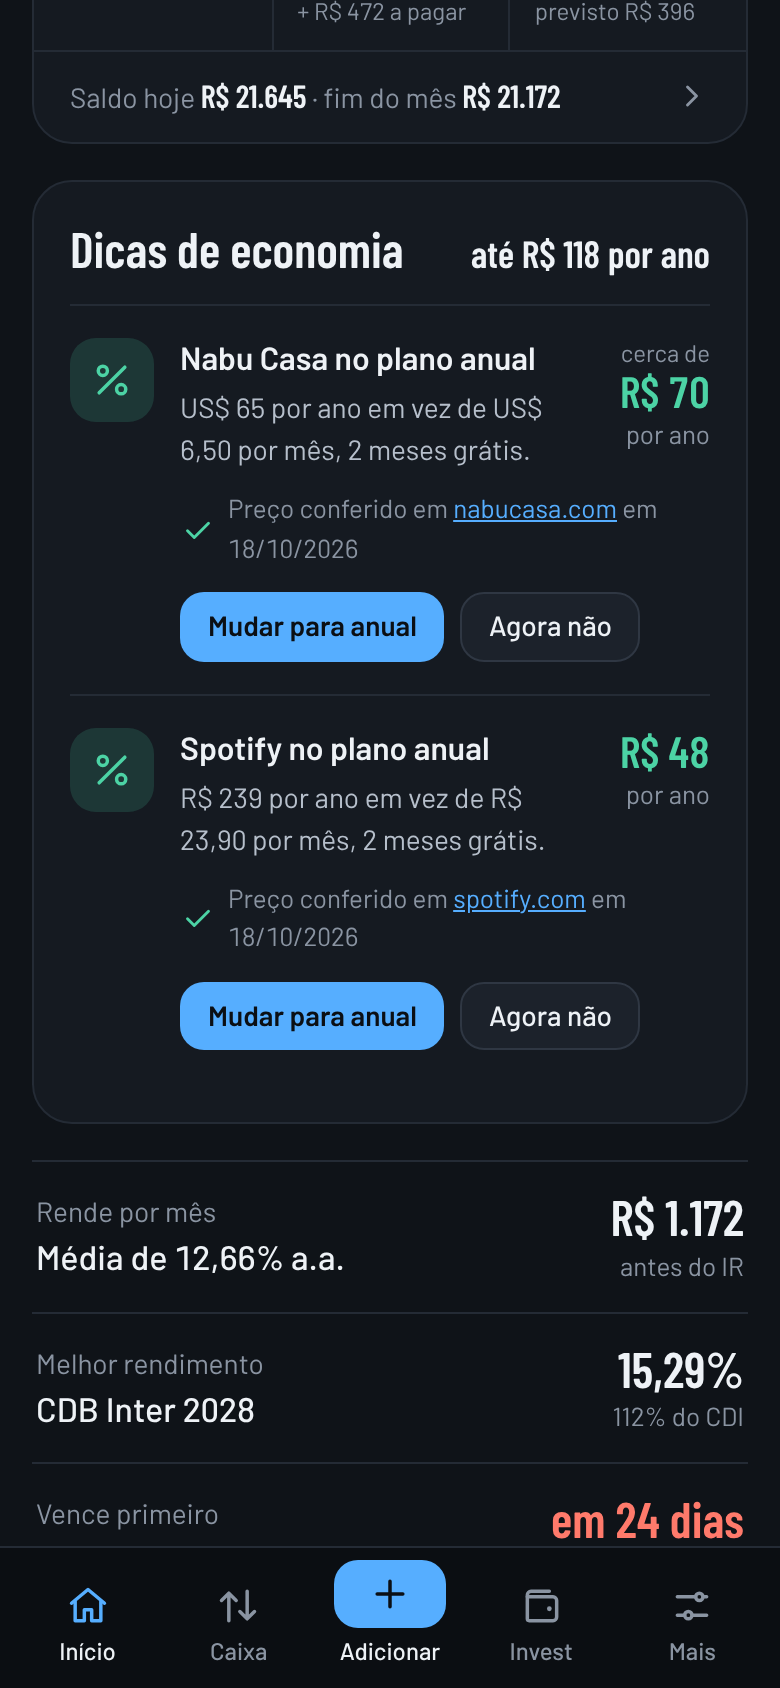
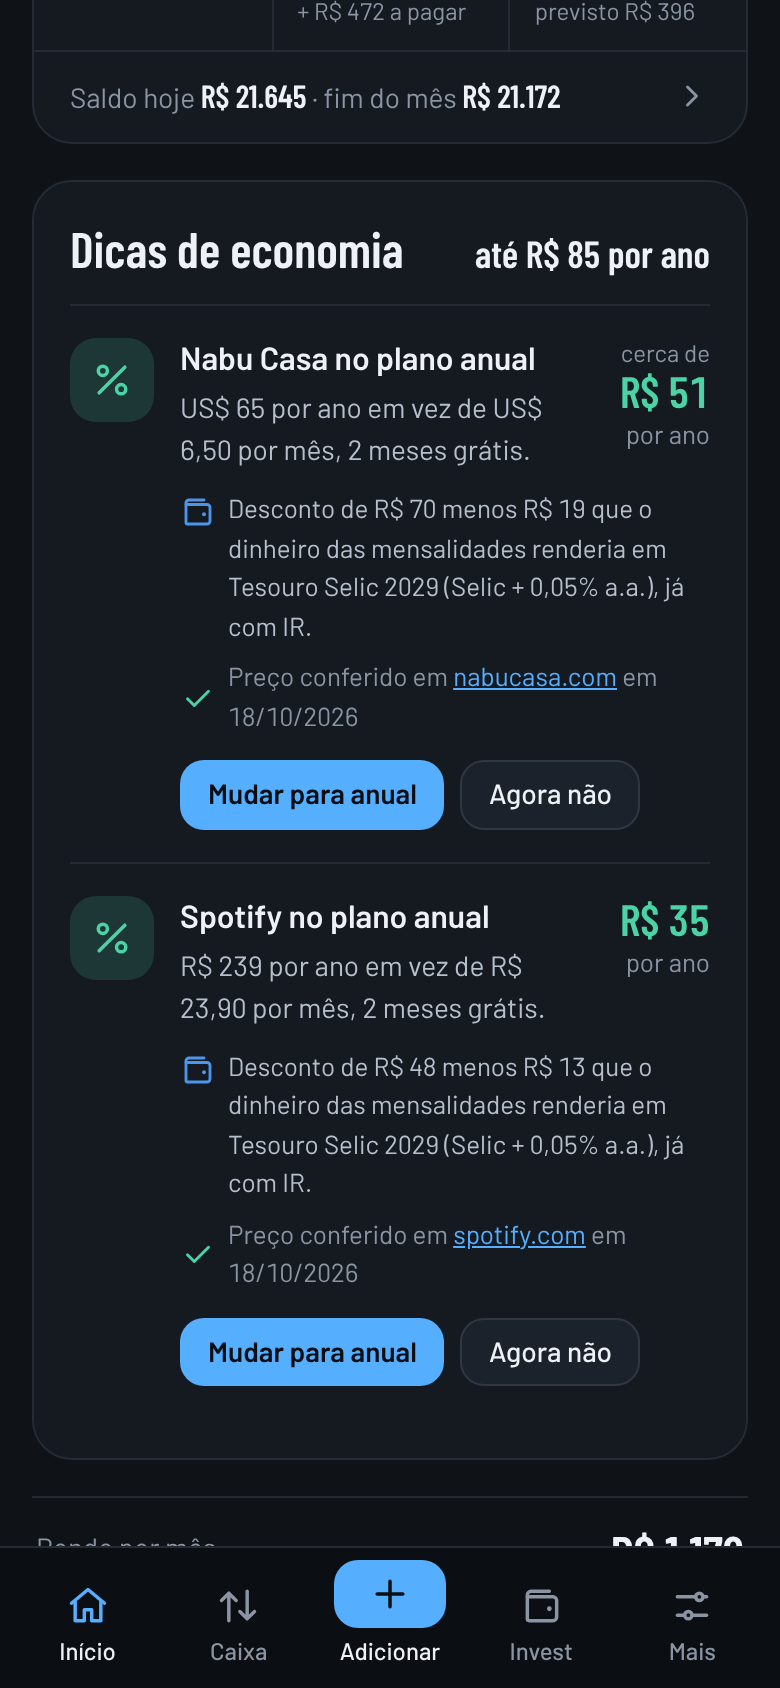
GerencIA 1.3.1: economia real nas dicas, descontando o rendimento
O desconto do plano anual agora é comparado com o que o dinheiro das
mensalidades renderia nos seus investimentos (o de liquidez diária que
rende mais, já com IR; senão a média deles; sem investimentos, 100% do CDI).
A dica só aparece quando ainda sobra economia depois disso.

Claude-Session: https://claude.ai/code/session_01KymZovckVDN7Ug2oWtjnTX

diff --git a/gerencia/app/www/app.js b/gerencia/app/www/app.js
@@ -3,7 +3,7 @@
 'use strict';
 
 const DEMO = !!window.GERENCIA_DEMO;
-const VERSAO = '1.3.0';
+const VERSAO = '1.3.1';
 
 const PALETA = ['#FF5A4E', '#FF8A65', '#FF77A8', '#E04B8A', '#FFA23A', '#F2C14E', '#B79BFF', '#56AEFF', '#4CD3A5', '#B8B0B0'];
 // ordem para sugerir cor a um banco novo
@@ -2129,6 +2129,34 @@ function mesesGratis(x) {
   return r >= 1 && Math.abs(m - r) < 0.12 ? r : 0;
 }
 
+// Economia real do plano anual: o desconto menos o que o dinheiro das mensalidades renderia nos seus investimentos.
+// O dinheiro sai mês a mês, então vale o investimento seu com liquidez diária que rende mais (líquido de IR);
+// sem nenhum com liquidez diária, a média dos seus investimentos; sem investimentos, 100% do CDI.
+function rendaReserva() {
+  return memo('reserva', () => {
+    const meus = porEscopo('meu').filter(i => !['estimado', 'parado'].includes(i.indexador) && taxaAnual(i) > 0);
+    const liquida = i => taxaAnual(i) * (1 - aliquota(tipoDe(i.tipo).ir, 200));
+    const liq = meus.filter(i => i.liquidez === 'diaria');
+    if (liq.length) {
+      const i = liq.reduce((a, b) => liquida(b) > liquida(a) ? b : a);
+      return { r: taxaAnual(i), ir: tipoDe(i.tipo).ir, onde: `em ${i.nome} (${rotuloTaxa(i)})`, curto: i.nome };
+    }
+    if (meus.length) {
+      const V = meus.reduce((s, i) => s + valorHoje(i), 0);
+      const r = V > 0 ? meus.reduce((s, i) => s + valorHoje(i) * taxaAnual(i), 0) / V : 0;
+      return { r, ir: 'reg', onde: `na média dos seus investimentos (${pct(r * 100)}% a.a.)`, curto: 'seus investimentos' };
+    }
+    return { r: (+S.d.indices.cdi || 0) / 100, ir: 'reg', onde: `a 100% do CDI (${pct(+S.d.indices.cdi || 0)}% a.a.)`, curto: '100% do CDI' };
+  });
+}
+function economiaReal(mensal, anual) {
+  const rs = rendaReserva(), rm = Math.pow(1 + rs.r, 1 / 12) - 1;
+  let pv = 0; // quanto precisa estar investido hoje para pagar as 12 mensalidades
+  for (let k = 0; k < 12; k++) pv += mensal / (1 + (Math.pow(1 + rm, k) - 1) * (1 - aliquota(rs.ir, k * 30.44)));
+  return { real: pv - anual, rende: 12 * mensal - pv, desconto: 12 * mensal - anual, rs };
+}
+const realDe = x => memo('real:' + x.id + ':' + x.valor + ':' + x.preco_anual, () => economiaReal(x.valor, x.preco_anual));
+
 function dicaCategoria() {
   return memo('dicaCat', () => {
     const ym = addYm(ymHoje(), -1), ant = [1, 2, 3].map(k => addYm(ym, -k));
@@ -2151,7 +2179,8 @@ function dicaCategoria() {
 
 function dicasVisiveis() {
   const fora = new Set(S.d.ajustes.dicas_fora || []);
-  const subs = ((S.dicas && S.dicas.dicas) || []).filter(x => !fora.has(x.id));
+  const subs = ((S.dicas && S.dicas.dicas) || []).filter(x => !fora.has(x.id) && realDe(x).real >= 10)
+    .sort((a, b) => realDe(b).real - realDe(a).real);
   const cat = dicaCategoria();
   return { subs, cat: cat && !fora.has(cat.id) ? cat : null };
 }
@@ -2163,7 +2192,8 @@ function linhaDicaAssinatura(x) {
     <div class="dica-cab"><span class="dica-ic">${ic('percent')}</span>
       <div class="dica-t"><b>${esc(x.nome)} no plano anual</b>
         <span>${fmtPreco(x.anual, x.moeda)} por ano em vez de ${fmtPreco(x.mensal, x.moeda)} por mês, ${mg ? (mg === 1 ? '1 mês grátis' : mg + ' meses grátis') : pct(x.pct) + '% a menos'}.</span></div>
-      <div class="dica-v">${x.estimado ? '<i>cerca de</i>' : ''}${brl(x.economia_ano, 0)}<small>por ano</small></div></div>
+      <div class="dica-v">${x.estimado ? '<i>cerca de</i>' : ''}${brl(realDe(x).real, 0)}<small>por ano</small></div></div>
+    <div class="dica-calc">${ic('wallet', 'ic-s')}<span>Desconto de ${brl(realDe(x).desconto, 0)} menos ${brl(realDe(x).rende, 0)} que o dinheiro das mensalidades renderia ${esc(realDe(x).rs.onde)}, já com IR.</span></div>
     <div class="dica-fonte">${ic('check', 'ic-s')}<span>Preço conferido em <a href="${esc(x.fonte)}" target="_blank" rel="noopener">${esc(x.dominio)}</a>${quando ? ' em ' + quando : ''}${x.origem === 'fixo' ? '' : ' · cobrança das suas faturas'}</span></div>
     <div class="dica-acoes"><button class="btn peq pri" data-a="dica-anual" data-v="${esc(x.id)}">Mudar para anual</button><button class="btn peq" data-a="dica-fora" data-v="${esc(x.id)}">Agora não</button></div>
   </div>`;
@@ -2190,7 +2220,7 @@ function cardDicas() {
     return conferindo ? `<div class="card dicas"><div class="rot">Dicas de economia</div>
       <div class="dica-conf"><span class="giro"></span>Conferindo os preços das suas assinaturas nas páginas oficiais…</div></div>` : '';
   }
-  const total = subs.reduce((s, x) => s + x.economia_ano, 0);
+  const total = subs.reduce((s, x) => s + realDe(x).real, 0);
   return `<div class="card dicas"><div class="rot">Dicas de economia${total ? ` <b>${subs.length > 1 ? 'até ' : ''}${brl(total, 0)} por ano</b>` : ''}</div>
     ${subs.slice(0, 3).map(linhaDicaAssinatura).join('')}${cat ? linhaDicaCategoria(cat) : ''}
     ${subs.length > 3 ? `<button class="link" data-a="tab" data-v="mais" data-ancora="dicas">Ver as ${subs.length} dicas</button>` : ''}</div>`;
@@ -2207,7 +2237,10 @@ function cardDicasMais() {
   else if (!subs.length) h += `<div class="status manual">Nenhuma dessas assinaturas nos seus fixos ou faturas.</div>`;
   else {
     h += subs.map(a => {
-      const txt = a.status === 'ok' ? `No plano anual você economiza ${a.estimado ? 'cerca de ' : ''}${brl(a.economia_ano, 0)} por ano.` : a.texto;
+      const er = a.status === 'ok' ? economiaReal(a.valor, a.preco_anual) : null;
+      const txt = !er ? a.texto : er.real >= 10
+        ? `No plano anual você economiza ${a.estimado ? 'cerca de ' : ''}${brl(er.real, 0)} por ano, já descontando o que o dinheiro renderia ${er.rs.onde}.`
+        : `O anual tem ${brl(er.desconto, 0)} de desconto, mas o dinheiro rendendo ${er.rs.onde} daria quase o mesmo. Não vale trocar.`;
       const quando = a.conferido && !['conferindo', 'ja_anual'].includes(a.status) ? ` Conferido em ${fData(pData(a.conferido))}.` : '';
       const mesmoNome = semAcento(a.descricao) === semAcento(a.nome);
       return `<div class="ass-row"><span class="ini" style="--c:${corCat(a)}">${esc((a.nome || '?').slice(0, 1))}</span>
@@ -2232,8 +2265,10 @@ function abrirDicaAnual(id) {
   abrirFolha(montarDicaAnual);
 }
 function ecoDA() {
-  const eco = 12 * DA.x.valor - (+DA.valor || 0);
-  return eco > 0.005 ? `Você economiza <b>${brl(eco)}</b> por ano.` : 'Com esse valor, o anual não sai mais barato.';
+  const e = economiaReal(DA.x.valor, +DA.valor || 0);
+  if (e.desconto <= 0.005) return 'Com esse valor, o anual não sai mais barato.';
+  if (e.real <= 0.005) return `O desconto é de ${brl(e.desconto)}, mas deixar o dinheiro rendendo ${esc(e.rs.onde)} e pagar por mês sai melhor.`;
+  return `Você economiza <b>${brl(e.real)}</b> por ano: ${brl(e.desconto)} de desconto menos ${brl(e.rende)} que o dinheiro renderia ${esc(e.rs.onde)}, já com IR.`;
 }
 function montarDicaAnual() {
   const { x } = DA, mes = MESES_LONGOS[+DA.data.slice(5, 7) - 1];

diff --git a/gerencia/app/www/styles.css b/gerencia/app/www/styles.css
@@ -603,7 +603,9 @@ details summary { list-style-position: inside; }
 .dica-v i { display: block; font: 400 12px/1.2 var(--font); font-style: normal; color: var(--muted); }
 .dica-v small { display: block; font: 400 13px/1.3 var(--font); color: var(--muted); margin-top: 2px; }
 .dica-v.alerta { color: var(--danger); }
-.dica-fonte { display: flex; align-items: center; gap: 6px; margin: 10px 0 0 55px; font-size: 13px; color: var(--muted); }
+.dica-calc { display: flex; align-items: flex-start; gap: 6px; margin: 10px 0 0 55px; font-size: 13px; color: var(--text-2); }
+.dica-calc .ic-s { color: var(--apo); flex: none; margin-top: 2px; }
+.dica-fonte { display: flex; align-items: center; gap: 6px; margin: 6px 0 0 55px; font-size: 13px; color: var(--muted); }
 .dica-fonte .ic-s { color: var(--good); flex: none; }
 .dica-fonte a { color: var(--accent-text); }
 .dica-acoes { display: flex; flex-wrap: wrap; gap: 8px; margin: 12px 0 0 55px; }
@@ -623,7 +625,7 @@ details summary { list-style-position: inside; }
 .cmp-anual small { display: block; font-size: 13px; color: var(--muted); }
 .eco-linha { padding: 12px 14px; border-radius: 14px; background: color-mix(in srgb, var(--good) 13%, transparent); color: var(--text); font-size: 15px; }
 .eco-linha b { color: var(--good); }
-@media (max-width: 380px) { .dica-fonte, .dica-acoes { margin-left: 0; } }
+@media (max-width: 380px) { .dica-calc, .dica-fonte, .dica-acoes { margin-left: 0; } }
 
 /* ---------- aporte mensal */
 .ini.apo .ic { width: 21px; height: 21px; }

diff --git a/gerencia/app/server.py b/gerencia/app/server.py
@@ -26,7 +26,7 @@ sys.path.insert(0, os.path.dirname(os.path.abspath(__file__)))
 import calc  # noqa: E402
 import assinaturas  # noqa: E402
 
-VERSAO = "1.3.0"
+VERSAO = "1.3.1"
 PORTA = int(os.environ.get("GERENCIA_PORTA", "8099"))
 DATA_DIR = os.environ.get("GERENCIA_DATA", "/data")
 SHARE_DIR = os.environ.get("GERENCIA_SHARE", "/share/gerencia")

diff --git a/gerencia/DOCS.md b/gerencia/DOCS.md
@@ -68,7 +68,7 @@ A dica só aparece quando dá para confirmar na origem:
 3. O app só aceita um preço se o trecho citado pela IA estiver escrito na página, com aquele número.
 4. O valor que você paga precisa bater com o preço mensal de um único plano. Em planos em dólar, o app compara com o dólar do Banco Central, com folga para o IOF e o câmbio do cartão.
 
-No Início, a dica mostra quanto você economiza por ano, a fonte e a data em que o preço foi conferido. Em planos em dólar, a economia em reais é estimada pelo que você paga hoje. Toque em **Mudar para anual** depois de trocar o plano no site do serviço: o fixo mensal para e entra um fixo anual no seu fluxo. **Agora não** esconde a dica.
+No Início, a dica mostra a **economia real** por ano: o desconto do plano anual menos o que o dinheiro das mensalidades renderia se ficasse investido. Para isso o app usa os seus investimentos e as taxas cadastradas: o que você tem com liquidez diária e rende mais, já com IR (o dinheiro sai mês a mês, então precisa poder ser resgatado). Sem nenhum com liquidez diária, usa a média dos seus investimentos; sem investimentos, 100% do CDI. Se o rendimento empatar com o desconto, a dica não aparece. A dica também mostra a fonte e a data em que o preço foi conferido. Em planos em dólar, a economia em reais é estimada pelo que você paga hoje. Toque em **Mudar para anual** depois de trocar o plano no site do serviço: o fixo mensal para e entra um fixo anual no seu fluxo. **Agora não** esconde a dica.
 
 O app também avisa quando uma categoria fica bem acima da sua média dos 3 meses anteriores, pelos seus próprios lançamentos.
 

diff --git a/gerencia/CHANGELOG.md b/gerencia/CHANGELOG.md
@@ -1,5 +1,9 @@
 # Mudanças
 
+## 1.3.1
+
+- Dicas de economia mostram a **economia real**: o desconto do plano anual menos o que o dinheiro das mensalidades renderia nos seus investimentos (o de liquidez diária que rende mais, já com IR). Se o rendimento empatar com o desconto, a dica não aparece.
+
 ## 1.3.0
 
 - O **aporte por mês** da aba Invest agora entra no fluxo de caixa como saída fixa, todo mês, só para os seus investimentos (com o filtro De terceiros ele não conta).
